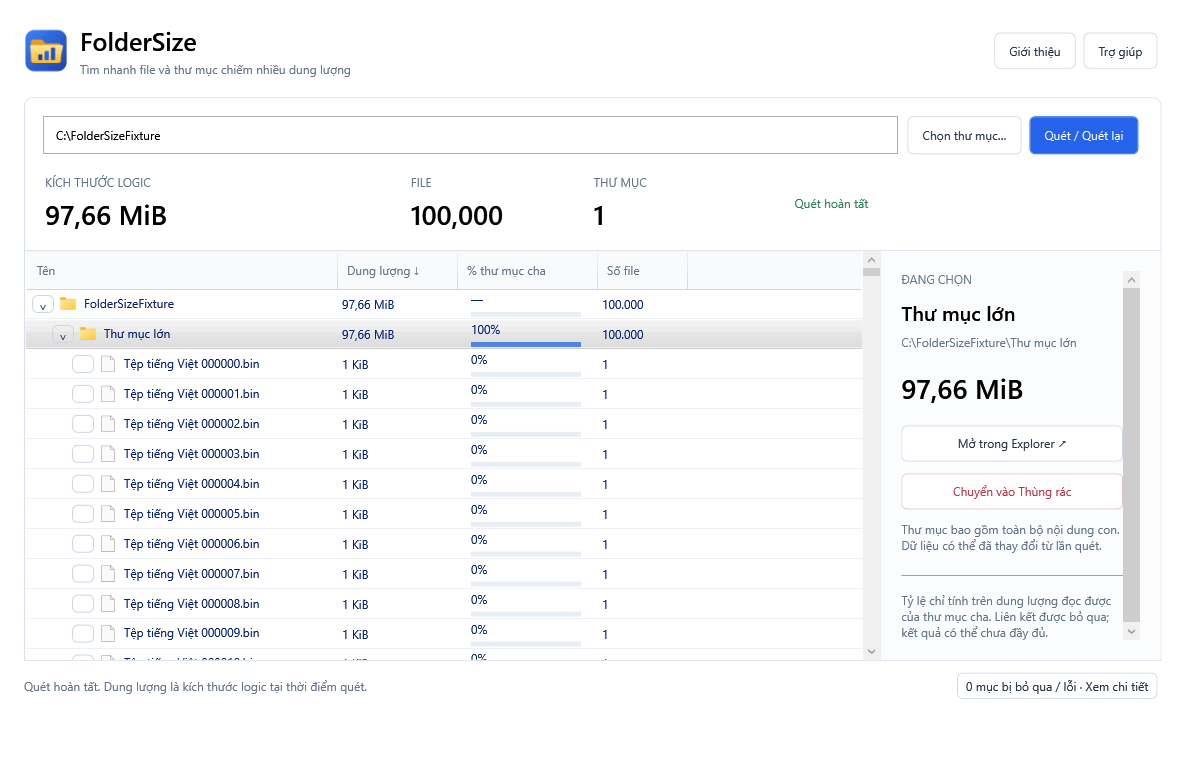
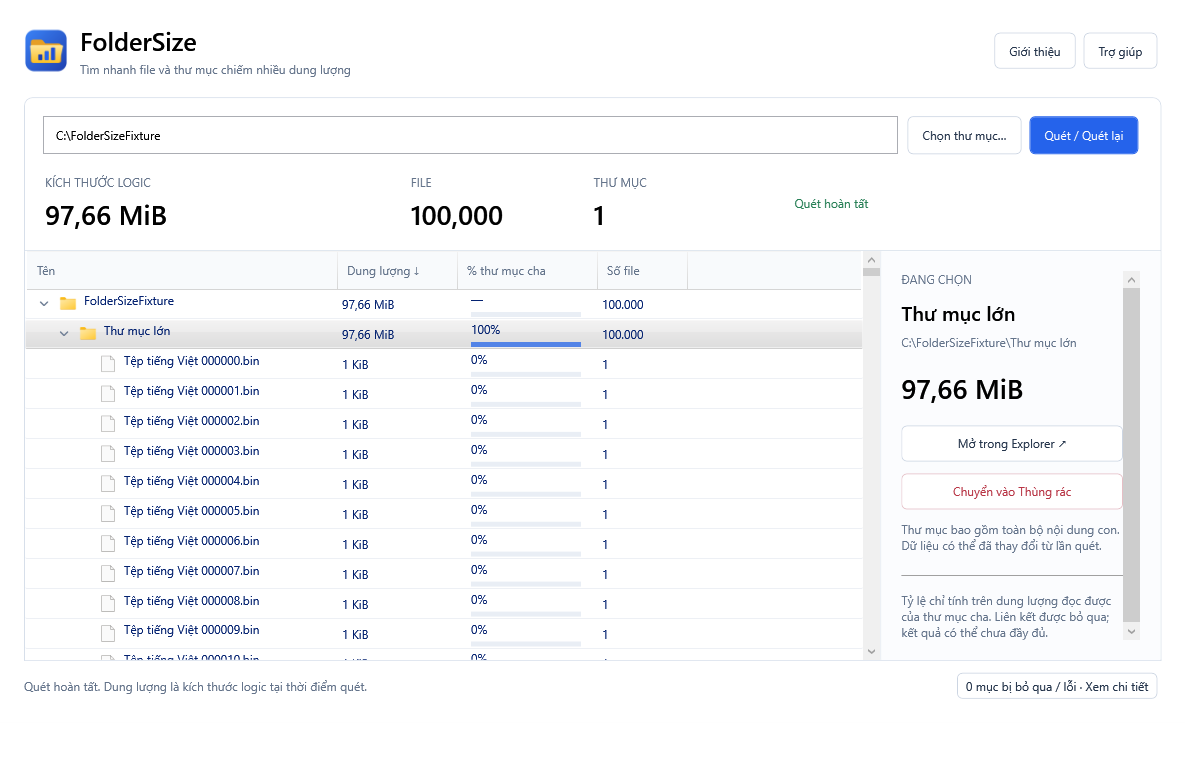
style: refine folder expand and collapse controls

Changed region(s): [[0.0617, 0.3934, 0.2158, 0.8776]]

diff --git a/src/FolderSize.App/Themes/Styles.xaml b/src/FolderSize.App/Themes/Styles.xaml
@@ -6,6 +6,57 @@
     <Setter Property="Template"><Setter.Value><ControlTemplate TargetType="Button"><Border x:Name="Border" Background="{TemplateBinding Background}" BorderBrush="{TemplateBinding BorderBrush}" BorderThickness="1" CornerRadius="5" Padding="{TemplateBinding Padding}"><ContentPresenter HorizontalAlignment="Center" VerticalAlignment="Center"/></Border><ControlTemplate.Triggers><Trigger Property="IsMouseOver" Value="True"><Setter TargetName="Border" Property="Opacity" Value="0.8"/></Trigger><Trigger Property="IsKeyboardFocused" Value="True"><Setter TargetName="Border" Property="BorderBrush" Value="#2563EB"/><Setter TargetName="Border" Property="BorderThickness" Value="2"/></Trigger><Trigger Property="IsEnabled" Value="False"><Setter TargetName="Border" Property="Opacity" Value="0.4"/></Trigger></ControlTemplate.Triggers></ControlTemplate></Setter.Value></Setter>
   </Style>
   <Style x:Key="PrimaryButton" TargetType="Button" BasedOn="{StaticResource {x:Type Button}}"><Setter Property="Background" Value="#2563EB"/><Setter Property="Foreground" Value="White"/><Setter Property="BorderBrush" Value="#2563EB"/></Style>
+  <Style x:Key="TreeExpander" TargetType="Button">
+    <Setter Property="Width" Value="24"/>
+    <Setter Property="Height" Value="24"/>
+    <Setter Property="Margin" Value="0,0,3,0"/>
+    <Setter Property="Padding" Value="0"/>
+    <Setter Property="Background" Value="Transparent"/>
+    <Setter Property="Foreground" Value="#718096"/>
+    <Setter Property="BorderThickness" Value="0"/>
+    <Setter Property="Cursor" Value="Hand"/>
+    <Setter Property="Focusable" Value="False"/>
+    <Setter Property="IsTabStop" Value="False"/>
+    <Setter Property="VerticalAlignment" Value="Center"/>
+    <Setter Property="ToolTip" Value="Mở thư mục"/>
+    <Setter Property="AutomationProperties.Name" Value="Mở thư mục"/>
+    <Setter Property="Template">
+      <Setter.Value>
+        <ControlTemplate TargetType="Button">
+          <Border x:Name="HitArea" Background="{TemplateBinding Background}" CornerRadius="5" SnapsToDevicePixels="True">
+            <Grid Width="12" Height="12" HorizontalAlignment="Center" VerticalAlignment="Center">
+              <Path x:Name="Chevron" Data="M 4,2.5 L 7.5,6 L 4,9.5" Stroke="{TemplateBinding Foreground}" StrokeThickness="1.5" StrokeStartLineCap="Round" StrokeEndLineCap="Round" StrokeLineJoin="Round" RenderTransformOrigin="0.5,0.5">
+                <Path.RenderTransform><RotateTransform Angle="0"/></Path.RenderTransform>
+              </Path>
+            </Grid>
+          </Border>
+          <ControlTemplate.Triggers>
+            <DataTrigger Binding="{Binding Row.IsExpanded}" Value="True">
+              <Setter TargetName="Chevron" Property="RenderTransform"><Setter.Value><RotateTransform Angle="90"/></Setter.Value></Setter>
+            </DataTrigger>
+            <Trigger Property="IsMouseOver" Value="True">
+              <Setter TargetName="HitArea" Property="Background" Value="#EAF1FF"/>
+              <Setter Property="Foreground" Value="#2563EB"/>
+            </Trigger>
+            <Trigger Property="IsPressed" Value="True">
+              <Setter TargetName="HitArea" Property="Background" Value="#DCE8FF"/>
+              <Setter Property="Foreground" Value="#1D4ED8"/>
+            </Trigger>
+          </ControlTemplate.Triggers>
+        </ControlTemplate>
+      </Setter.Value>
+    </Setter>
+    <Style.Triggers>
+      <DataTrigger Binding="{Binding Row.IsExpanded}" Value="True">
+        <Setter Property="ToolTip" Value="Thu gọn thư mục"/>
+        <Setter Property="AutomationProperties.Name" Value="Thu gọn thư mục"/>
+      </DataTrigger>
+      <DataTrigger Binding="{Binding Row.HasChildren}" Value="False">
+        <Setter Property="Visibility" Value="Hidden"/>
+        <Setter Property="IsHitTestVisible" Value="False"/>
+      </DataTrigger>
+    </Style.Triggers>
+  </Style>
   <Style x:Key="Caption" TargetType="TextBlock"><Setter Property="Foreground" Value="#64748B"/><Setter Property="FontSize" Value="12"/></Style>
   <Style x:Key="Stat" TargetType="TextBlock"><Setter Property="FontSize" Value="27"/><Setter Property="FontWeight" Value="SemiBold"/><Setter Property="Margin" Value="0,6,0,0"/></Style>
   <Style TargetType="GridViewColumnHeader"><Setter Property="Background" Value="#F8FAFC"/><Setter Property="Foreground" Value="#64748B"/><Setter Property="Padding" Value="10"/><Setter Property="HorizontalContentAlignment" Value="Left"/></Style>

diff --git a/src/FolderSize.App/MainWindow.xaml b/src/FolderSize.App/MainWindow.xaml
@@ -19,7 +19,7 @@
     <Border Grid.Row="2" Background="White" BorderBrush="#D7DFEA" BorderThickness="1,0,1,1"><Grid><Grid.ColumnDefinitions><ColumnDefinition Width="*" MinWidth="440"/><ColumnDefinition Width="280"/></Grid.ColumnDefinitions>
       <Grid><ListView x:Name="TreeList" ItemsSource="{Binding Rows}" SelectedItem="{Binding SelectedRow}" SelectionMode="Single" BorderThickness="0" VirtualizingStackPanel.IsVirtualizing="True" VirtualizingStackPanel.VirtualizationMode="Recycling" ScrollViewer.CanContentScroll="True" PreviewKeyDown="Tree_KeyDown">
         <ListView.View><GridView AllowsColumnReorder="False">
-          <GridViewColumn Header="Tên" Width="310"><GridViewColumn.CellTemplate><DataTemplate><StackPanel Orientation="Horizontal" Margin="{Binding Indent}" ToolTip="{Binding Node.FullPath}"><Button Content="{Binding Toggle}" Width="22" Padding="0" Margin="0,0,5,0" BorderThickness="0" Background="Transparent" Command="{Binding DataContext.ToggleCommand, RelativeSource={RelativeSource AncestorType=ListView}}" CommandParameter="{Binding}" Focusable="False"/><Image Width="18" Height="18" Margin="0,0,7,0" VerticalAlignment="Center" RenderOptions.BitmapScalingMode="HighQuality"><Image.Source><MultiBinding Converter="{StaticResource WindowsIcon}"><Binding Path="Node.FullPath"/><Binding Path="Node.IsDirectory"/><Binding Path="Row.IsExpanded"/></MultiBinding></Image.Source></Image><TextBlock Text="{Binding Name}" TextTrimming="CharacterEllipsis"/><TextBlock Text="{Binding Note}" FontSize="11" Foreground="#A86E28" Margin="8,2,0,0"/></StackPanel></DataTemplate></GridViewColumn.CellTemplate></GridViewColumn>
+          <GridViewColumn Header="Tên" Width="310"><GridViewColumn.CellTemplate><DataTemplate><StackPanel Orientation="Horizontal" Margin="{Binding Indent}" ToolTip="{Binding Node.FullPath}"><Button Style="{StaticResource TreeExpander}" Command="{Binding DataContext.ToggleCommand, RelativeSource={RelativeSource AncestorType=ListView}}" CommandParameter="{Binding}"/><Image Width="18" Height="18" Margin="0,0,7,0" VerticalAlignment="Center" RenderOptions.BitmapScalingMode="HighQuality"><Image.Source><MultiBinding Converter="{StaticResource WindowsIcon}"><Binding Path="Node.FullPath"/><Binding Path="Node.IsDirectory"/><Binding Path="Row.IsExpanded"/></MultiBinding></Image.Source></Image><TextBlock Text="{Binding Name}" TextTrimming="CharacterEllipsis"/><TextBlock Text="{Binding Note}" FontSize="11" Foreground="#A86E28" Margin="8,2,0,0"/></StackPanel></DataTemplate></GridViewColumn.CellTemplate></GridViewColumn>
           <GridViewColumn Header="Dung lượng ↓" Width="120" DisplayMemberBinding="{Binding Size}"/>
           <GridViewColumn Header="% thư mục cha" Width="140"><GridViewColumn.CellTemplate><DataTemplate><StackPanel Width="110"><TextBlock Text="{Binding Share}" FontSize="12"/><ProgressBar Value="{Binding ShareValue, Mode=OneWay}" Maximum="100" Height="5" Margin="0,5,0,0" Foreground="#5283E7" Background="#E9EEF5" BorderThickness="0"/></StackPanel></DataTemplate></GridViewColumn.CellTemplate></GridViewColumn>
           <GridViewColumn Header="Số file" Width="90" DisplayMemberBinding="{Binding Count}"/>

diff --git a/tests/FolderSize.UiSmoke/Program.cs b/tests/FolderSize.UiSmoke/Program.cs
@@ -45,9 +45,12 @@ internal static class Program
                 Console.WriteLine($"100,000 files: {vm.Rows.Count} visible rows, {count} realized containers; DPI={VisualTreeHelper.GetDpi(window).PixelsPerDip}");
                 if (vm.Rows.Count != 100002 || count < 1 || count > 150) throw new Exception("Virtualization failed");
                 if (Descendants<Image>(list).Count(image => image.Source is not null) != count) throw new Exception("Windows tree icons missing");
+                var expanders = Descendants<Button>(list).Where(button => button.CommandParameter is NodeRowViewModel && button.Visibility == Visibility.Visible).ToArray();
+                if (expanders.Length != 2) throw new Exception($"Expected only two folder expanders, got {expanders.Length}; file rows must not show empty buttons");
                 if (vm.SelectedRow?.Node.Name != "Thư mục lớn") throw new Exception("Selection lost");
                 Save(window, Path.Combine(output, "expanded.png"));
-                vm.ToggleExpanded(vm.Rows[1]); await Layout(window);
+                var folderExpander = expanders.Single(button => ReferenceEquals(button.CommandParameter, vm.Rows[1]));
+                folderExpander.Command.Execute(folderExpander.CommandParameter); await Layout(window);
                 if (vm.Rows.Count != 2) throw new Exception("Collapse retained hidden rows");
                 window.Width = 900; window.Height = 600; await Layout(window); Save(window, Path.Combine(output, "minimum.png"));
                 // Exercise 150% layout without altering the user's Windows DPI settings.

diff --git a/src/FolderSize.App/ViewModels/NodeRowViewModel.cs b/src/FolderSize.App/ViewModels/NodeRowViewModel.cs
@@ -11,9 +11,8 @@ public sealed class NodeRowViewModel(NodeRow row) : ObservableObject
     public string Count => Node.FileCount.ToString("N0", System.Globalization.CultureInfo.GetCultureInfo("vi-VN"));
     public string Share => Row.ParentShare is double value ? value.ToString("0.#", System.Globalization.CultureInfo.GetCultureInfo("vi-VN")) + "%" : "—";
     public double ShareValue => Row.ParentShare ?? 0;
-    public string Toggle => !Row.HasChildren ? "" : Row.IsExpanded ? "⌄" : "›";
     public System.Windows.Thickness Indent => new(Row.Depth * 20, 0, 0, 0);
     public string Note => Node.IsSkipped ? "Bỏ qua liên kết" : Node.IsIncomplete ? "Chưa đầy đủ" : "";
     public void Update(NodeRow value)
-    { row = value; foreach (var name in new[] { nameof(Node), nameof(Row), nameof(Name), nameof(Size), nameof(Count), nameof(Share), nameof(ShareValue), nameof(Toggle), nameof(Indent), nameof(Note) }) Notify(name); }
+    { row = value; foreach (var name in new[] { nameof(Node), nameof(Row), nameof(Name), nameof(Size), nameof(Count), nameof(Share), nameof(ShareValue), nameof(Indent), nameof(Note) }) Notify(name); }
 }

diff --git a/docs/verification.md b/docs/verification.md
@@ -35,3 +35,10 @@ Môi trường: Windows x64, 2026-10-27, SDK cục bộ .NET 10.0.403. SDK tải
 - Nguồn API Microsoft: https://learn.microsoft.com/en-us/windows/win32/api/shellapi/nf-shellapi-shgetstockiconinfo ; https://learn.microsoft.com/en-us/windows/win32/api/shellapi/nf-shellapi-shgetfileinfow
 - Trong lần đóng gói đầu của thay đổi icon, test trạng thái cũ lỗi không ổn định (ShellCancelOrFailureIsNotSuccess). Đã điều tra và tái hiện bằng `HeadlessProgressCannotClearSelectionAfterCompletion`: callback Progress<T> chạy thread pool khi không có SynchronizationContext có thể vượt generation guard rồi xóa lựa chọn sau completion. Test mới FAIL (selected row thành null), sau sửa chỉ phát progress khi có context đồng bộ, suite48/48 Release và UI100k PASS. WPF vẫn có context giao diện và nhận progress; runner headless nhận kết quả cuối.
 - Review độc lập phần icon/native/resource/credit: không có Critical/Important, không có mục từ chối đánh giá. Cache128, frozen BitmapSource, HICON lifetime và template chỉ dòng hiện thực đã được rà soát.
+
+## Nút mở / thu thư mục — v1.1.1
+- Thay ký tự text và template Button chung bằng chevron vector riêng: không viền, hit area24x24, đổi nền/màu khi hover/press, hướng phải khi đóng và hướng xuống khi mở. Tooltip và tên accessibility theo trạng thái.
+- File/thư mục rỗng ẩn nút nhưng giữ khoảng căn cột. Giữ phím Trái/Phải và command hiện có.
+- UI smoke trước sửa FAIL: 14nút trên14dòng, gồm12nút trống của file. Sau sửa PASS: chỉ2nút thư mục trên14container thực; gọi command từ nút thu nhánh đưa100.002dòng về2dòng và giữ lựa chọn.
+- Đã xem ảnh expanded/minimum mới; 48/48 test Release PASS trước đóng gói.
+- Lần publish vào thư mục generic bị khóa DLL bởi phiên FolderSize đang chạy (PID47072). Không đóng ứng dụng người dùng; bản mới xuất riêng tại `artifacts/FolderSize-1.1.1-win-x64` và `artifacts/FolderSize-1.1.1-win-x64.zip`.
